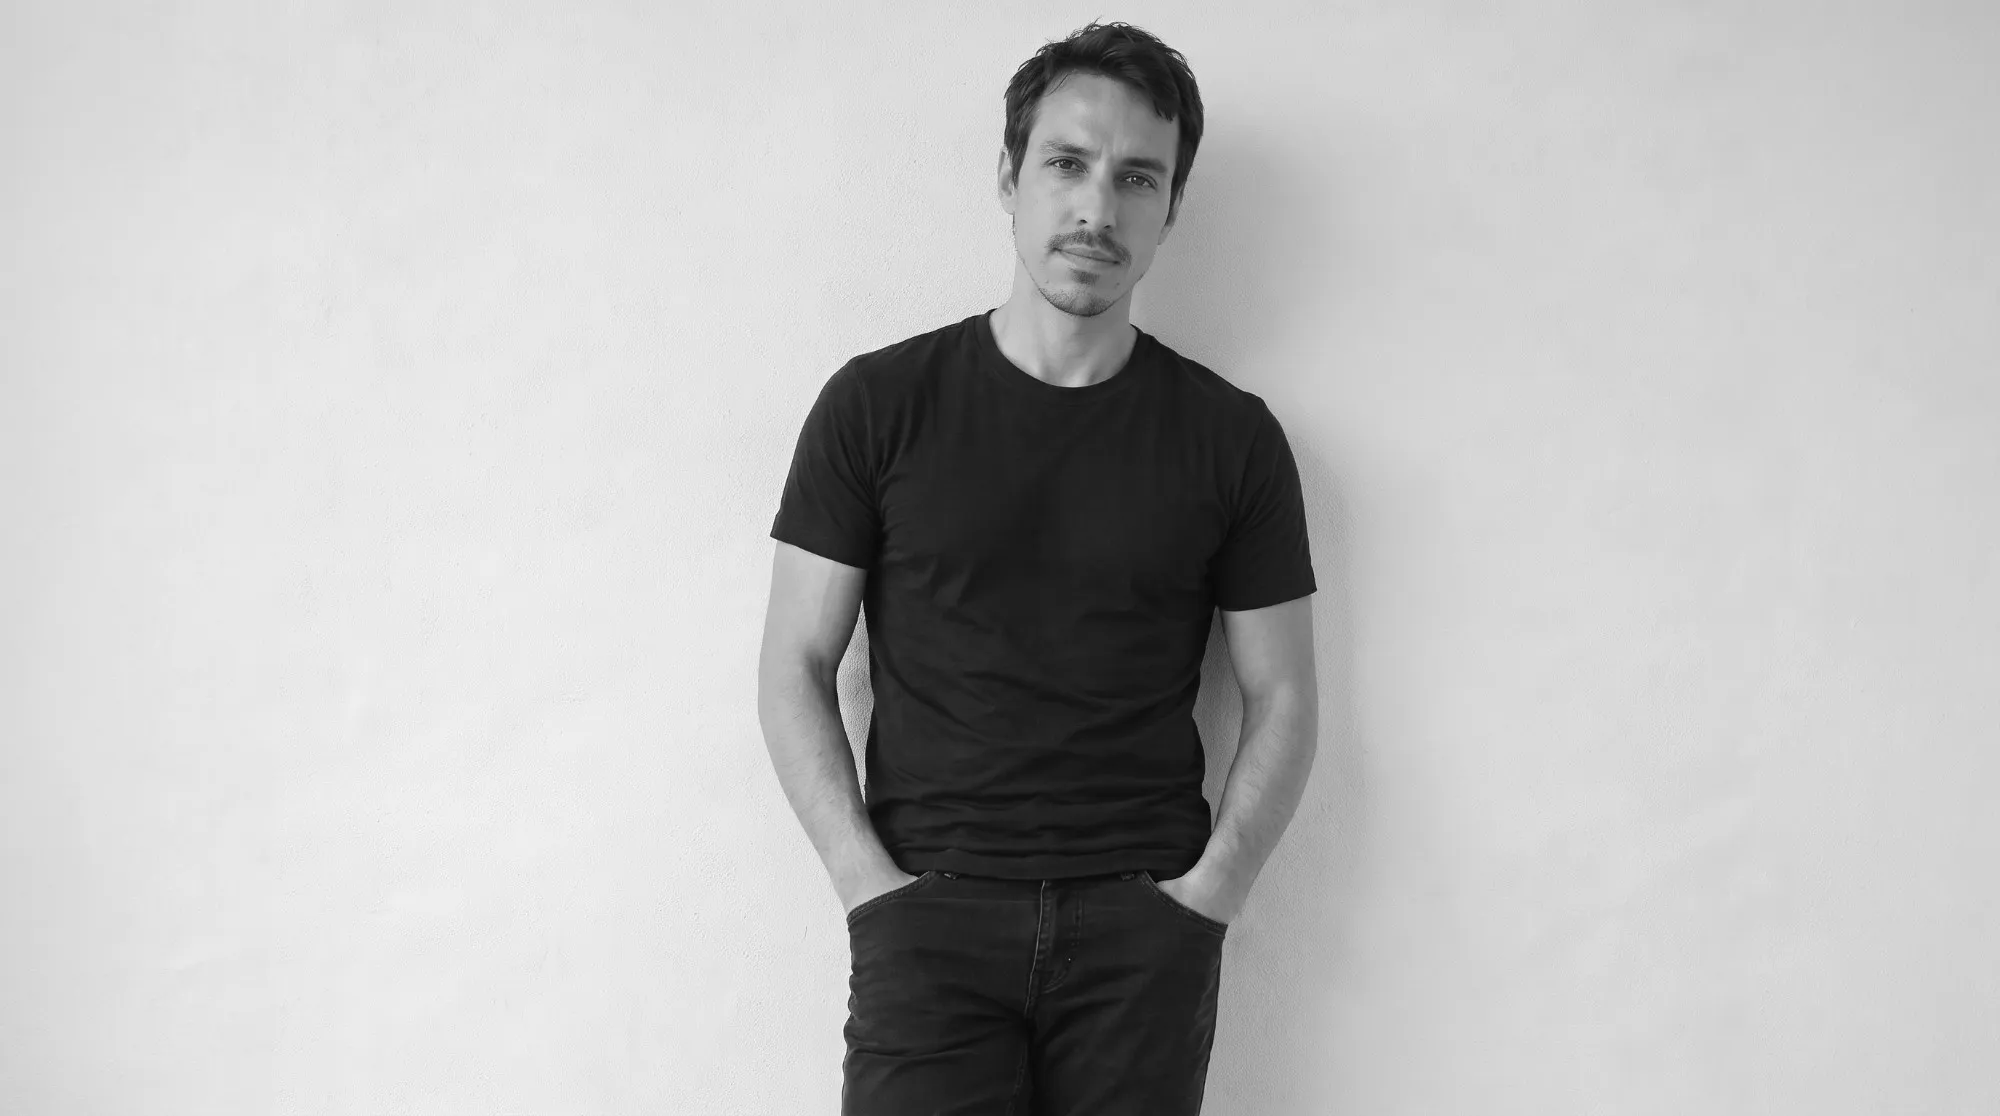
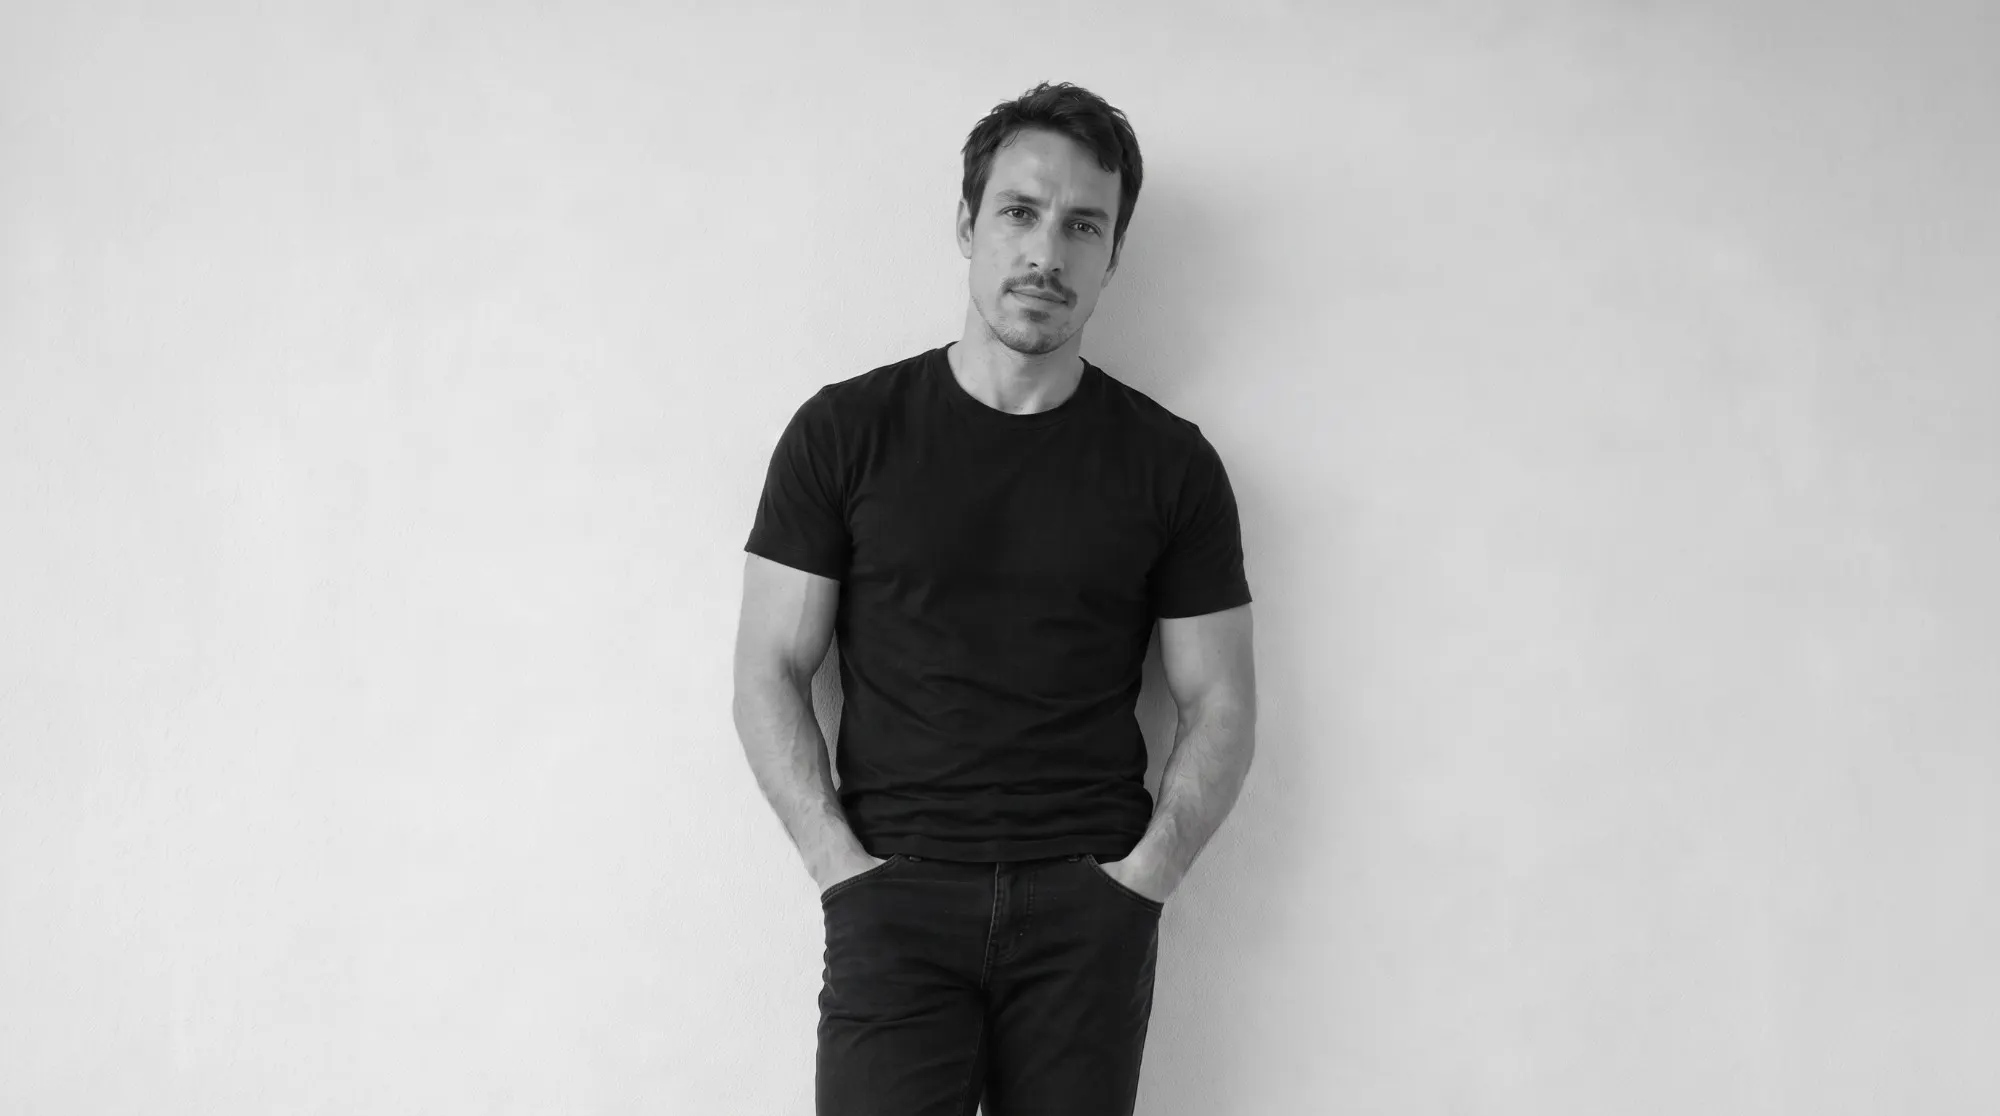
Revert hero to the previous wall portrait

Changed region(s): [[0.341, 0.0, 0.682, 1.0]]

diff --git a/HANDOFF.md b/HANDOFF.md
@@ -76,8 +76,6 @@ All applied and committed. Copy changes override the locked copy in BRIEF.md.
 - Footer right column: newsletter form like The Row: label "Rester informé", email field with underline and `>` submit, consent checkbox "J’accepte la politique de confidentialité." (link to `/privacy-policy/`). Both fields required, inline errors, goes through `submitLead('newsletter')`. Success sentence `[TODO: copy]`.
 - The philosophy statement ("Le prix est un signal…" and "Lorsque l’histoire…") was removed from the footer at Julien's request.
 
-Hero photo: new wall portrait (Oct 23), B&W. Source `site/img/hero-source.jpg`; desktop `hero-1000/1600/2000.webp`; mobile crop `hero-m-480/720.webp` (720 × 1116 crop starting at x = 710).
-
 Contact photo: Julien's chosen image, a double scull from above (Pexels, Elias Tigiser), B&W, `site/img/rowing-600/1000/1500.webp`. The globe "FR" is a button with no language menu yet (only French exists).
 
 ## 8. Open TODOs (from BRIEF.md, still waiting on Julien)
